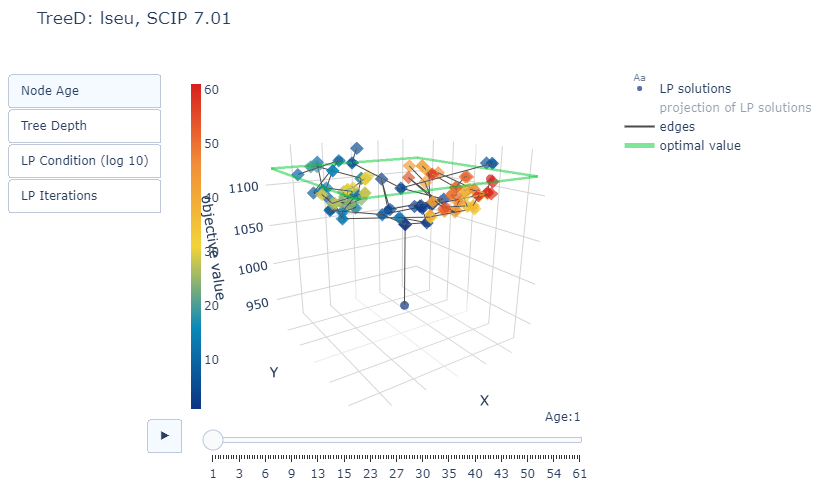
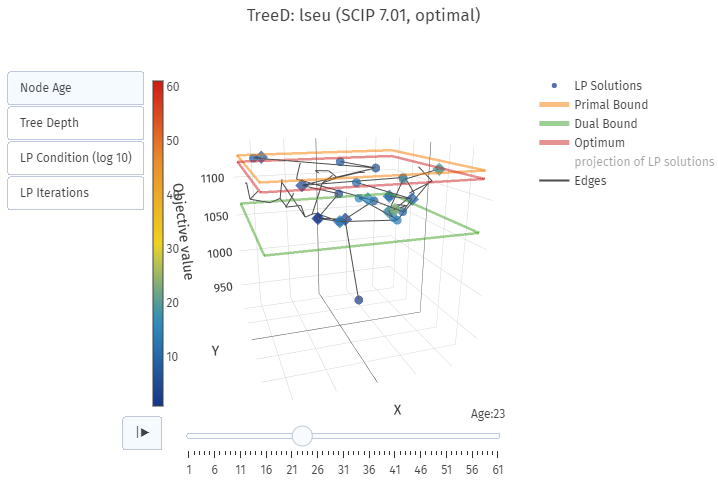
update README and some clean up

diff --git a/setup.py b/setup.py
@@ -5,7 +5,7 @@ with open("README.md", "r", encoding="utf-8") as fh:
 
 setup(
     name="treed",
-    version="1.2.1",
+    version="2.0.0",
     author="Matthias Miltenberger",
     author_email="matthias.miltenberger@gmail.com",
     description="3D Visualization of Branch-and-Cut Trees using PySCIPOpt",
@@ -19,6 +19,6 @@ setup(
         "License :: OSI Approved :: MIT License",
         "Operating System :: OS Independent",
     ],
-    install_requires=["pyscipopt", "scikit-learn", "pandas", "plotly", "networkx"],
+    install_requires=["pyscipopt", "scikit-learn", "pandas", "plotly", "networkx", "numpy"],
     python_requires=">=3.6"
 )

diff --git a/src/treed/treed.py b/src/treed/treed.py
@@ -632,9 +632,12 @@ class TreeD:
             title="Objective value", backgroundcolor="white", gridcolor="lightgray"
         )
         scene = go.layout.Scene(xaxis=xaxis, yaxis=yaxis, zaxis=zaxis)
-        title = (
-            "TreeD: " + self.probname + ", " + self.scipversion if self.title else ""
-        )
+
+        if self.title:
+            title = f"TreeD: {self.probname} ({self.scipversion}, {self.status})"
+        else:
+            title = ""
+        
         filename = "TreeD_" + self.probname + ".html"
 
         layout = go.Layout(

diff --git a/README.md b/README.md
@@ -4,7 +4,15 @@
 
 ### Visual representation of the branch-and-cut tree of SCIP using spatial dissimilarities of LP solutions -- [Interactive Example](http://www.zib.de/miltenberger/treed-showcase.html)
 
-[![Example](res/treed-example.png)](https://plot.ly/~mattmilten/103/)
+---
+
+![Example](res/treed-example.png)
+
+---
+
+![Example2D](res/tree2d-example.png)
+
+---
 
 TreeD uses SCIP via PySCIPOpt to visualize the Branch-and-Cut tree traversed during the solution of a mixed-integer linear program (MIP or MILP). The LP solutions at each node are projected into a 2-dimensional space using a range of different transformation algorithms. Per default, multi-dimensional scaling (mds) is used. Other methods and further options can be displayed by running `python -m treed --help`. The 2-dimensional data points are visualized in a 3D space with regards to their respective LP solution value. Nodes higher up represent LP solutions with a higher value. These nodes are usually found later in the search and show the progress in increasing the lower or dual bound to close the MIP gap.
 
